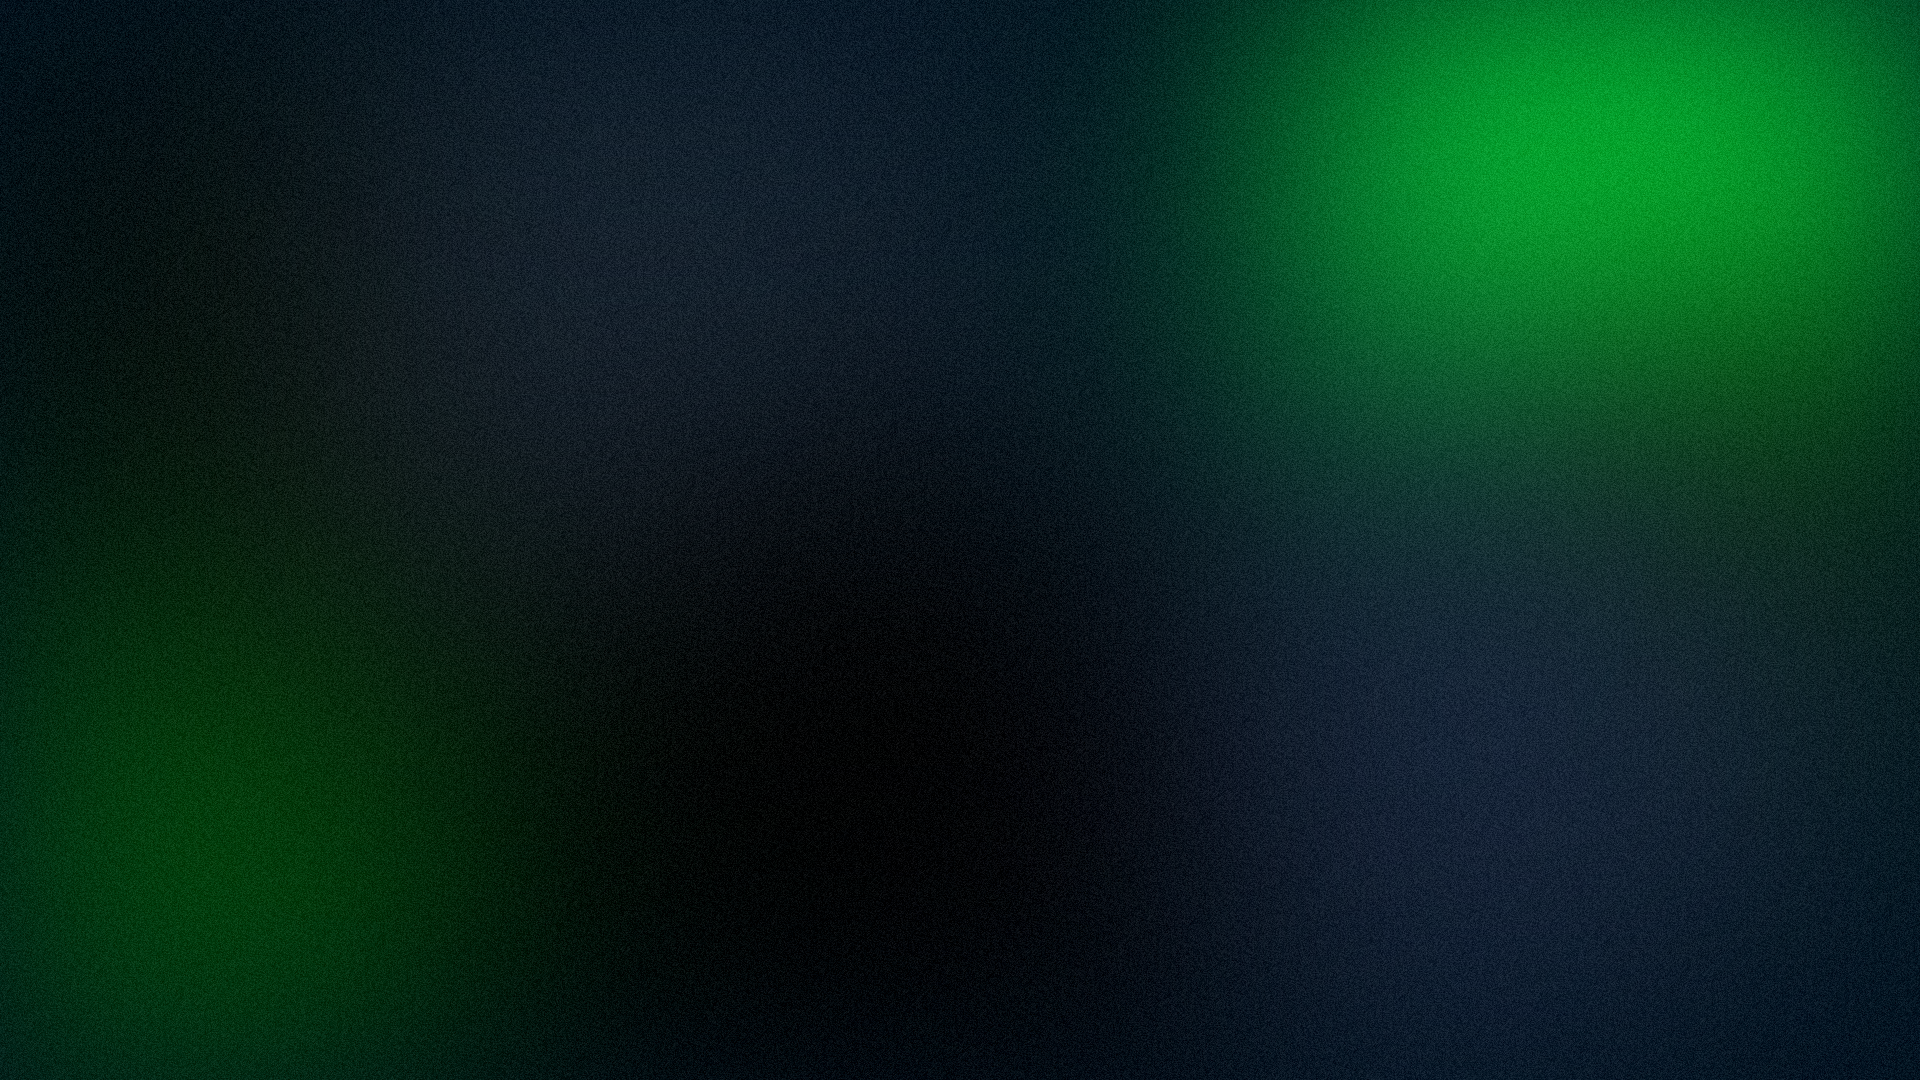
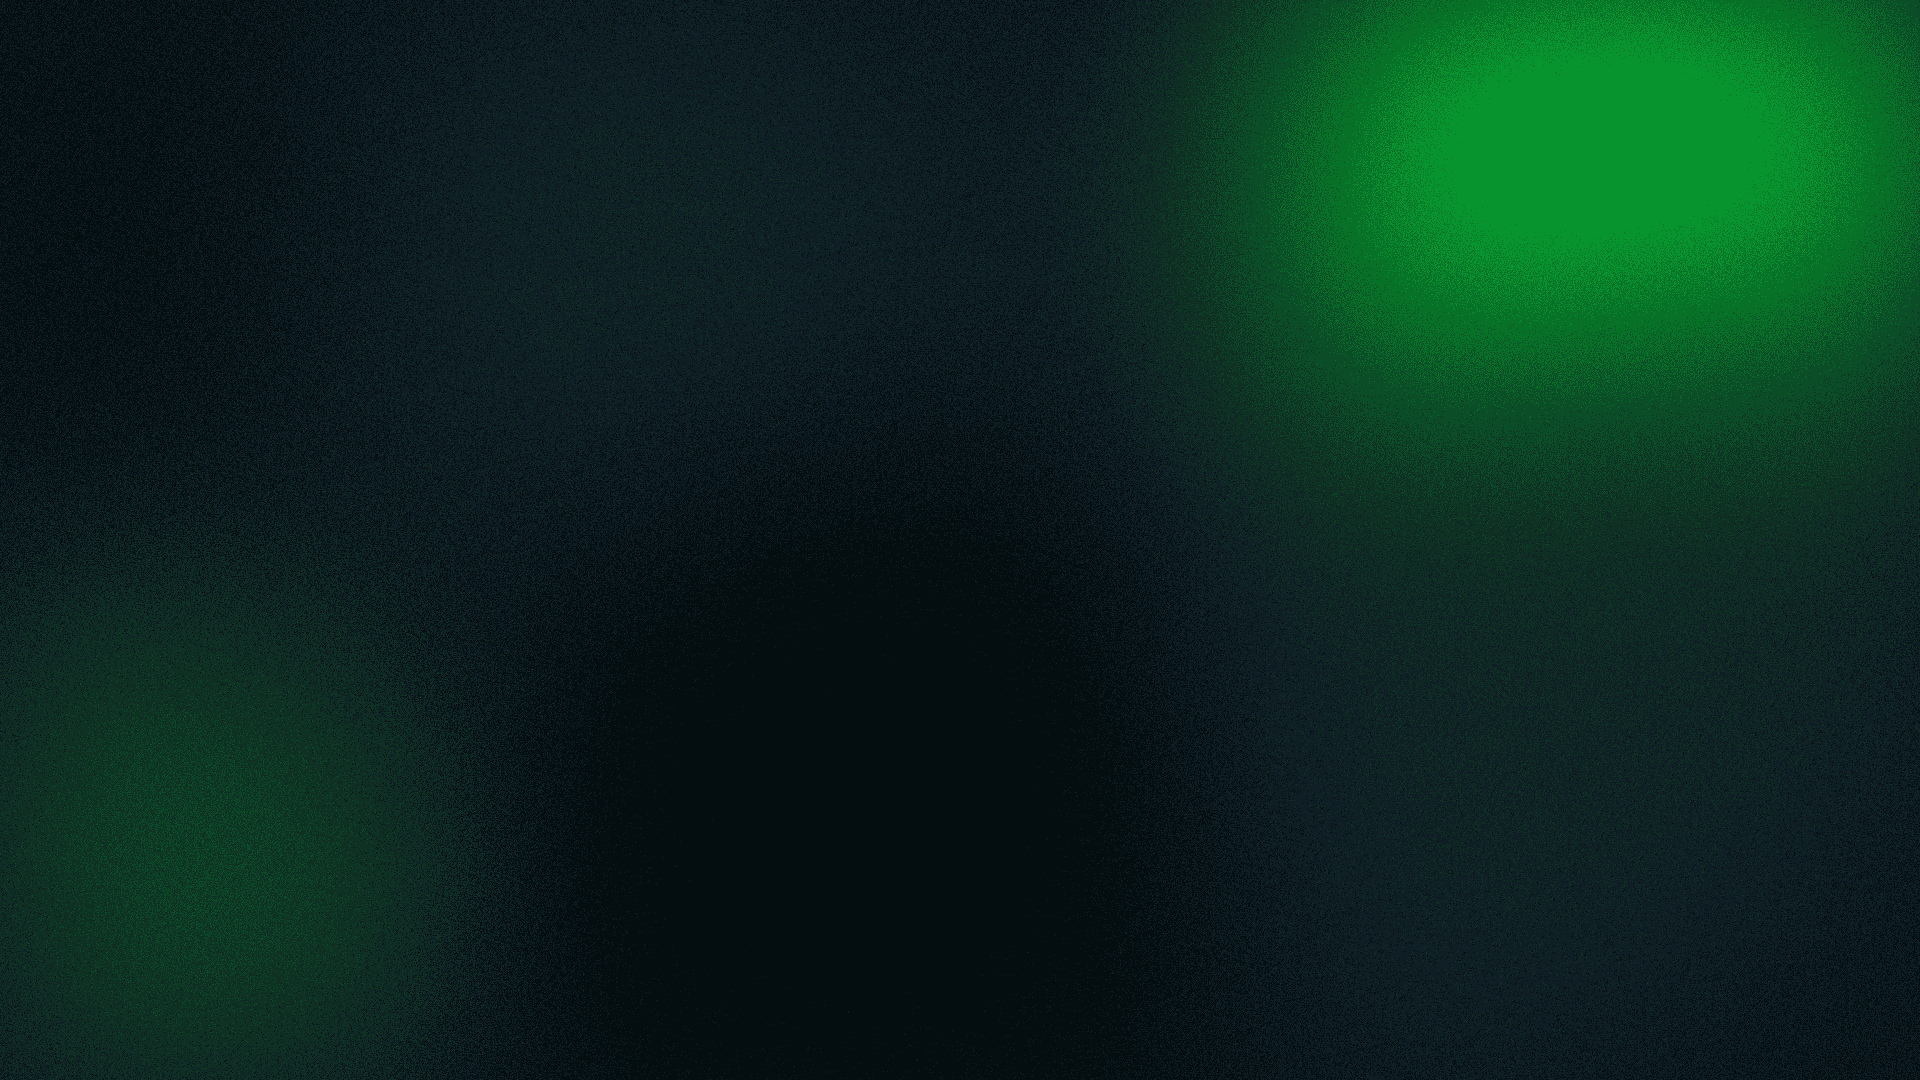
chore: compressed bg image for faster loads

Changed region(s): [[0.0, 0.4889, 0.2812, 0.9778], [0.7188, 0.4889, 0.875, 0.825]]

diff --git a/src/components/challenges/MainLayout.tsx b/src/components/challenges/MainLayout.tsx
@@ -47,7 +47,7 @@ const MainLayout: React.FC<MainLayoutProps> = ({
     <div
       className="min-h-screen text-foreground pt-16 pb-8 relative"
       style={{
-        backgroundImage: `linear-gradient(rgba(0,0,0,1), rgba(0,0,0,0.5)), url(${bgGradient})`,
+        backgroundImage: `linear-gradient(rgba(0,0,0,1), rgba(0,0,0,0.2)), url(${bgGradient})`,
         backgroundSize: "cover",
         backgroundPosition: "center",
         backgroundRepeat: "no-repeat",

diff --git a/src/components/common/Home.tsx b/src/components/common/Home.tsx
@@ -8,8 +8,6 @@ import { GitCompare, Sword, Trophy, Code, Flame, ArrowRight, Users, Github, Zap,
 import Footer from './Footer';
 import ChatBattleNotification from '@/components/challenges/ChatBattleNotification';
 import MainNavbar from './MainNavbar';
-import MusicPlayer from '../music/MusicPlayer';
-import bgGradient from "@/assets/challengegradient.png";
 
 
 const Home = () => {
